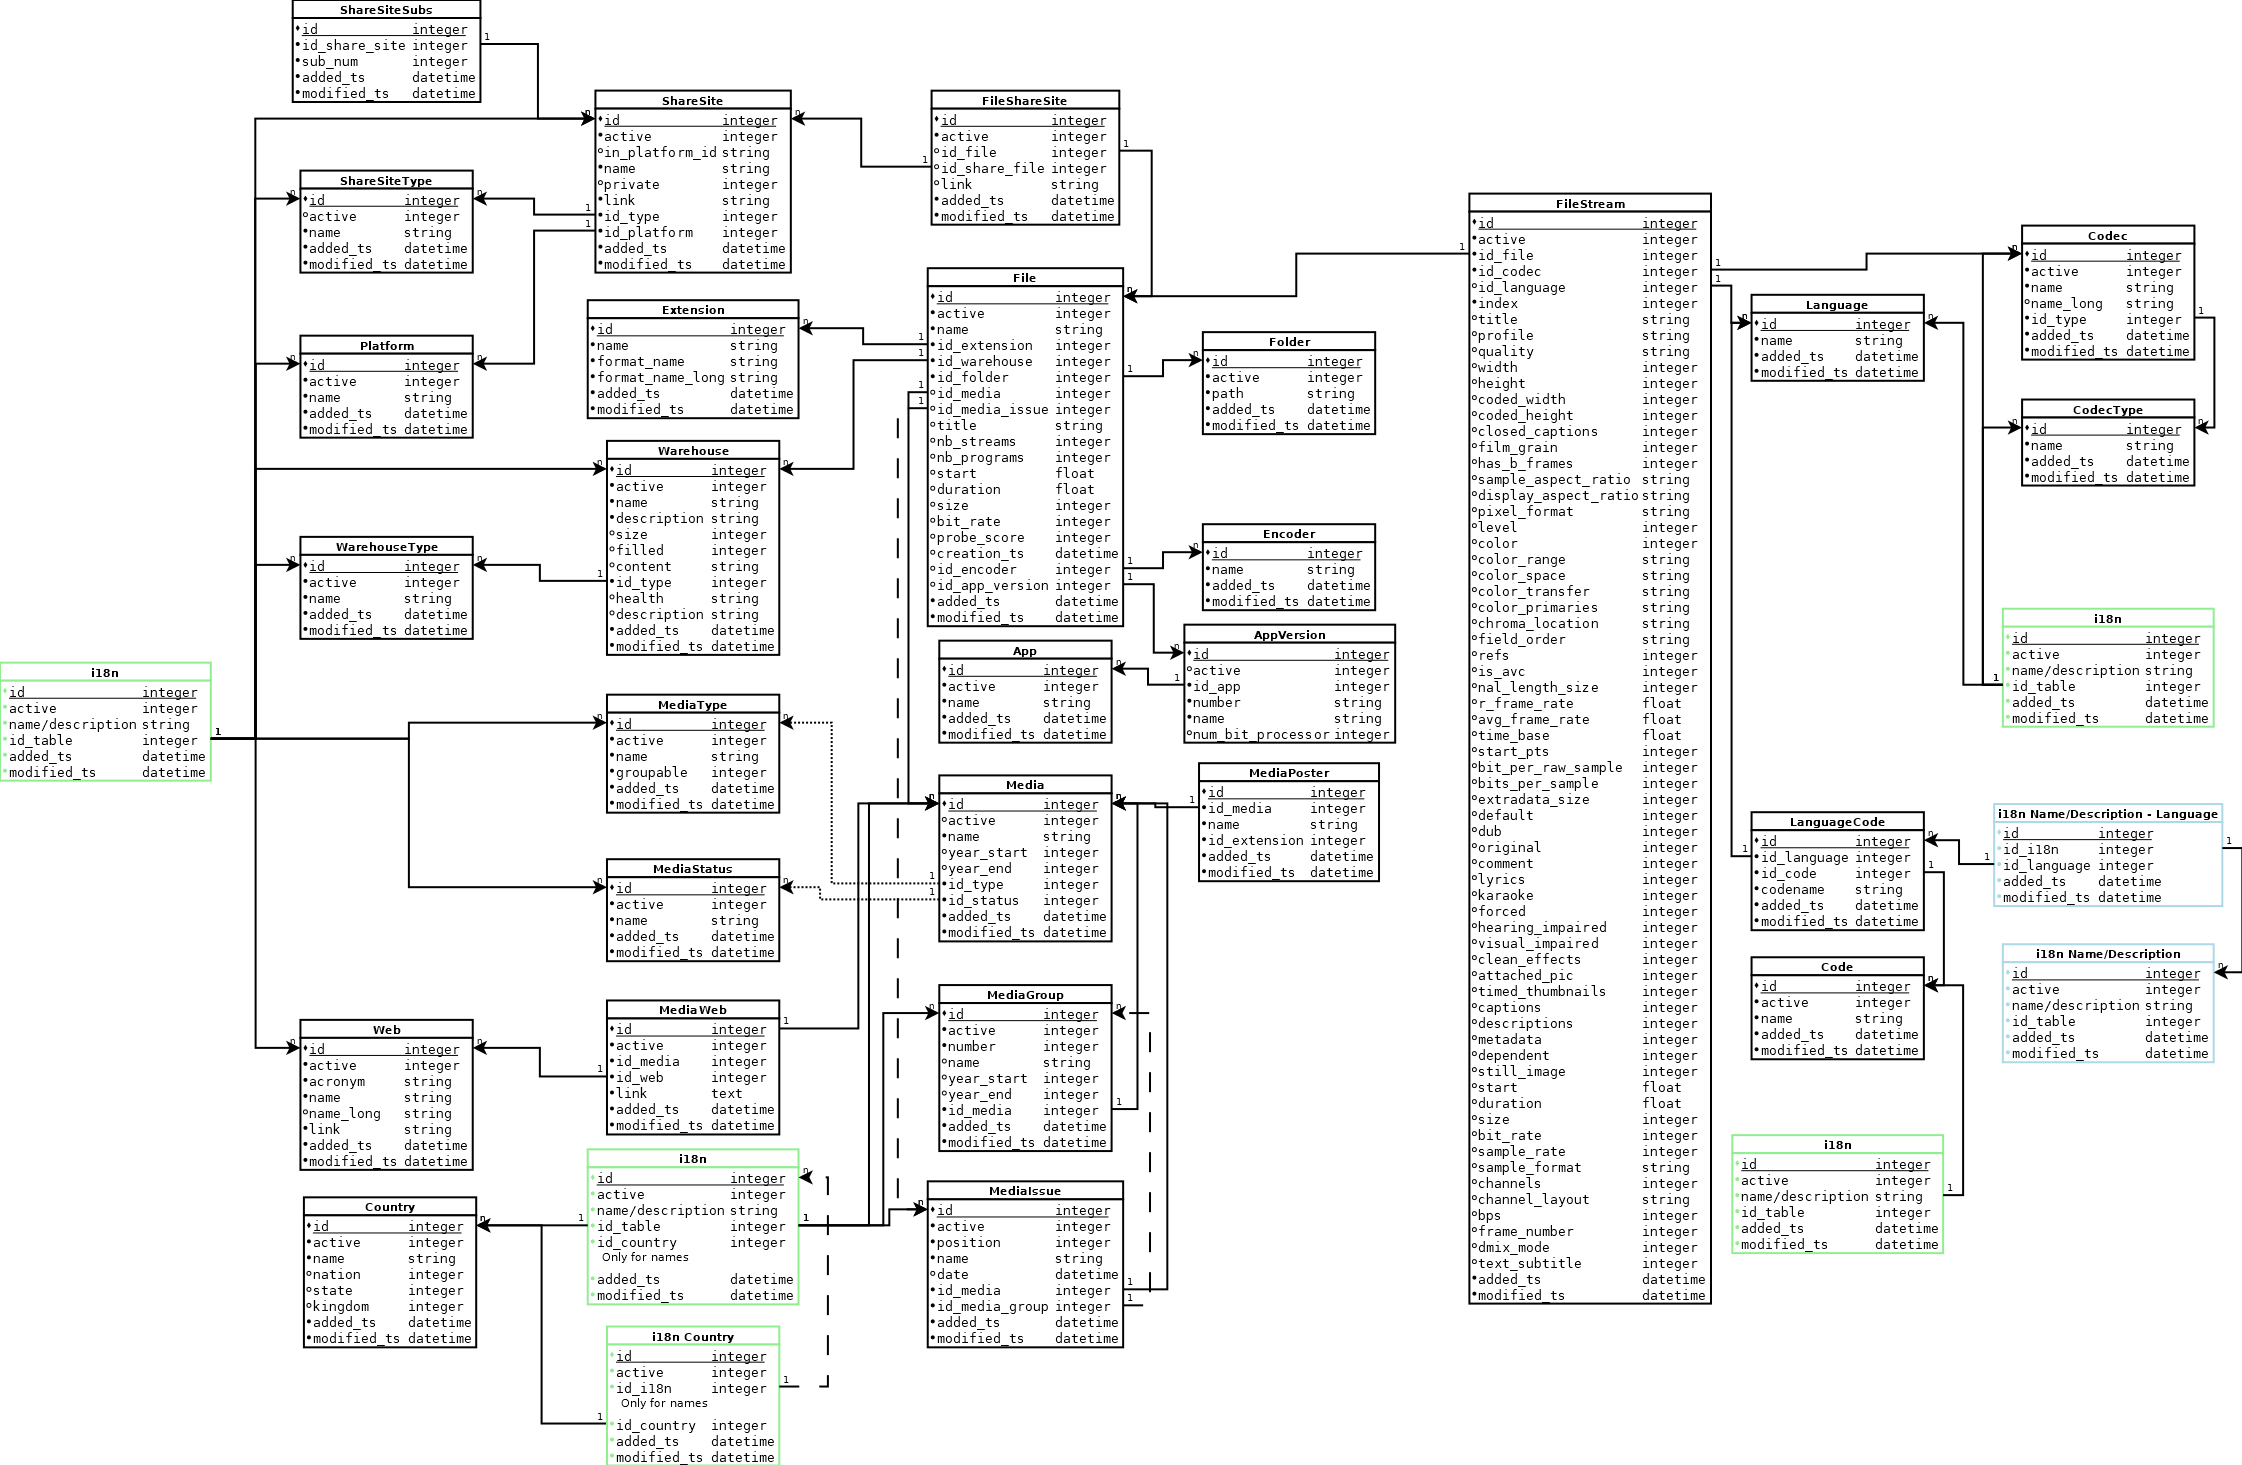
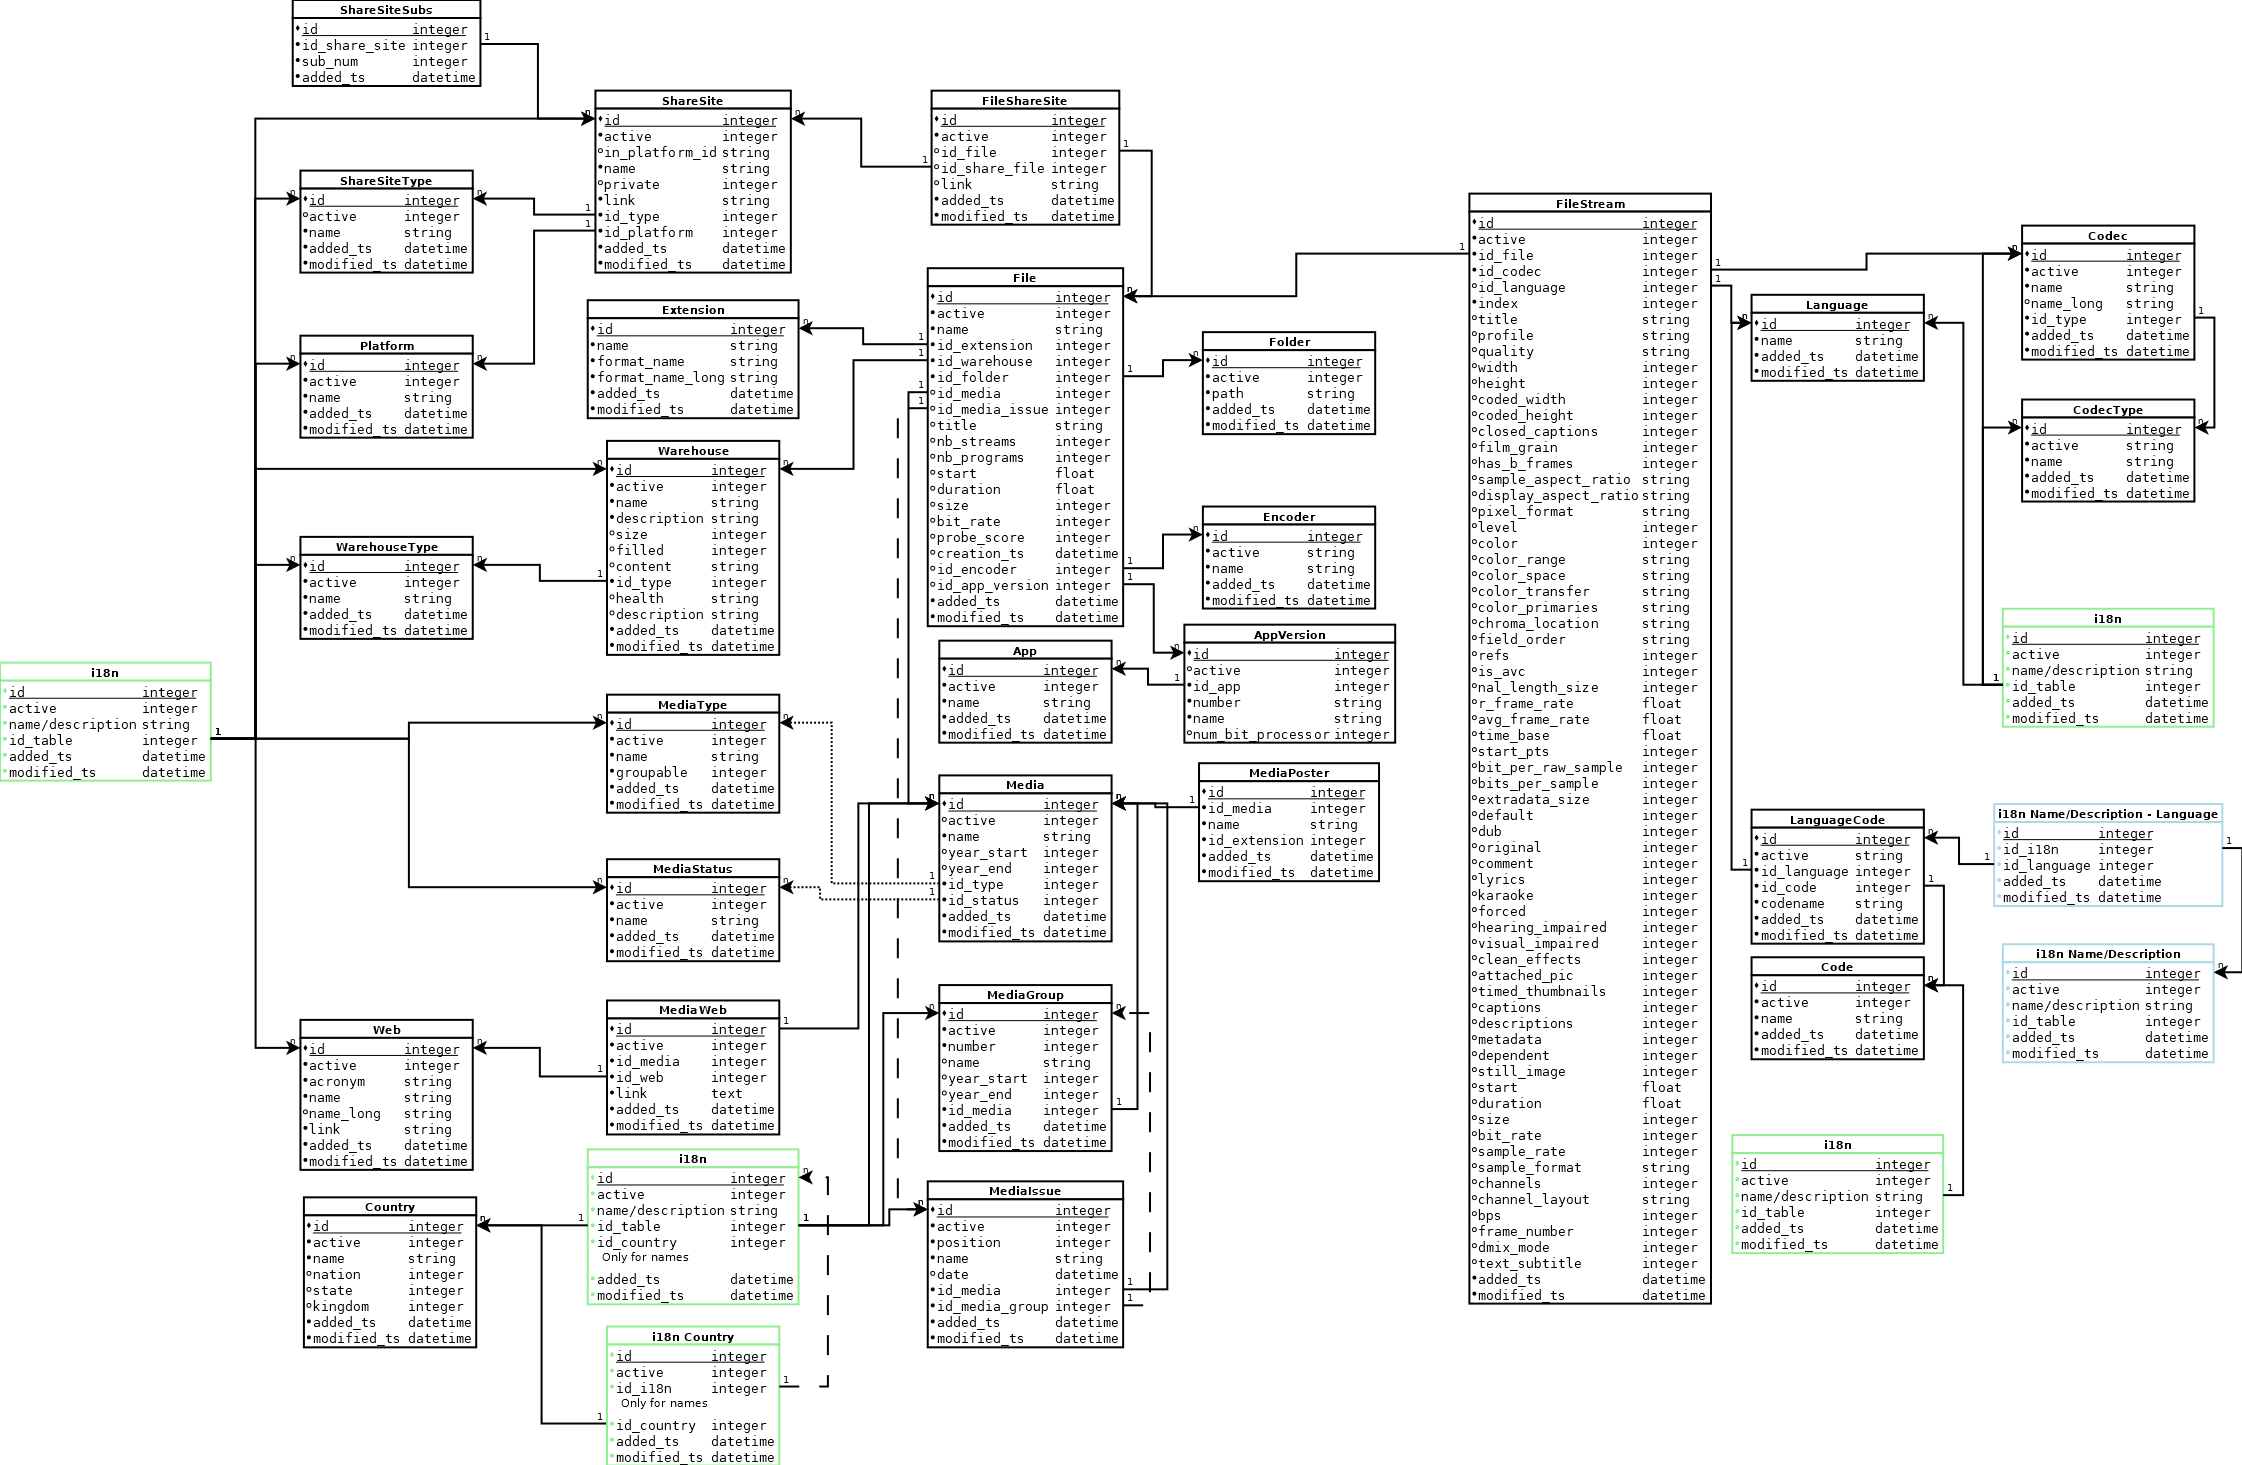
added active field

diff --git a/src/model/entity/share_site_type_description.py b/src/model/entity/share_site_type_description.py
@@ -3,9 +3,10 @@
 # ------------------------------------------------------------------------------
 #+ Autor:  	Ran#
 #+ Creado: 	2023/02/15 21:05:40.314045
-#+ Editado:	2023/02/17 20:41:09.741981
+#+ Editado:	2023/02/24 22:05:22.934419
 # ------------------------------------------------------------------------------
 from dataclasses import dataclass, field
+from typing import Optional
 
 from src.utils import Config
 from src.model.entity import BaseEntity, ShareSiteType
@@ -20,4 +21,5 @@ class ShareSiteTypeDescription(BaseEntity):
                             default=Config().get_table_name('ShareSiteTypeDescription'))
     desc: str
     share_site_type: ShareSiteType
+    active: Optional[int] = field(default=1)
 # ------------------------------------------------------------------------------

diff --git a/src/model/entity/warehouse_type_description.py b/src/model/entity/warehouse_type_description.py
@@ -3,9 +3,10 @@
 # ------------------------------------------------------------------------------
 #+ Autor:  	Ran#
 #+ Creado: 	2023/02/12 13:45:17.157511
-#+ Editado:	2023/02/17 20:41:25.618912
+#+ Editado:	2023/02/24 22:05:34.711928
 # ------------------------------------------------------------------------------
 from dataclasses import dataclass, field
+from typing import Optional
 
 from src.utils import Config
 from src.model.entity import BaseEntity, WarehouseType
@@ -20,4 +21,5 @@ class WarehouseTypeDescription(BaseEntity):
                             default=Config().get_table_name('WarehouseTypeDescription'))
     desc: str
     warehouse_type: WarehouseType
+    active: Optional[int] = field(default=1)
 # ------------------------------------------------------------------------------

diff --git a/src/model/entity/media_status_description.py b/src/model/entity/media_status_description.py
@@ -3,9 +3,10 @@
 # ------------------------------------------------------------------------------
 #+ Autor:  	Ran#
 #+ Creado: 	2023/02/19 14:16:04.980216
-#+ Editado:	2023/02/19 14:16:18.019832
+#+ Editado:	2023/02/24 22:04:59.768832
 # ------------------------------------------------------------------------------
 from dataclasses import dataclass, field
+from typing import Optional
 
 from src.utils import Config
 from src.model.entity import BaseEntity, MediaStatus
@@ -20,4 +21,5 @@ class MediaStatusDescription(BaseEntity):
                             default=Config().get_table_name('MediaStatusDescription'))
     desc: str
     media_type: MediaStatus
+    active: Optional[int] = field(default=1)
 # ------------------------------------------------------------------------------

diff --git a/src/model/entity/app_version_description.py b/src/model/entity/app_version_description.py
@@ -3,9 +3,10 @@
 # ------------------------------------------------------------------------------
 #+ Autor:  	Ran#
 #+ Creado: 	2023/02/23 17:17:21.124687
-#+ Editado:	2023/02/23 17:17:49.152586
+#+ Editado:	2023/02/24 22:03:36.361092
 # ------------------------------------------------------------------------------
 from dataclasses import dataclass, field
+from typing import Optional
 
 from src.utils import Config
 from src.model.entity import BaseEntity, AppVersion
@@ -20,4 +21,5 @@ class AppVersionDescription(BaseEntity):
                             default=Config().get_table_name('AppVersionDescription'))
     desc: str
     app_version: AppVersion
+    active: Optional[int] = field(default=1)
 # ------------------------------------------------------------------------------

diff --git a/src/model/entity/codec_type_description.py b/src/model/entity/codec_type_description.py
@@ -3,9 +3,10 @@
 # ------------------------------------------------------------------------------
 #+ Autor:  	Ran#
 #+ Creado: 	2023/02/19 12:33:53.667862
-#+ Editado:	2023/02/19 12:34:04.199933
+#+ Editado:	2023/02/24 22:04:11.864420
 # ------------------------------------------------------------------------------
 from dataclasses import dataclass, field
+from typing import Optional
 
 from src.utils import Config
 from src.model.entity import BaseEntity, CodecType
@@ -20,4 +21,5 @@ class CodecTypeDescription(BaseEntity):
                             default=Config().get_table_name('CodecTypeDescription'))
     desc: str
     codec_type: CodecType
+    active: Optional[int] = field(default=1)
 # ------------------------------------------------------------------------------

diff --git a/src/model/entity/media_type_description.py b/src/model/entity/media_type_description.py
@@ -3,9 +3,10 @@
 # ------------------------------------------------------------------------------
 #+ Autor:  	Ran#
 #+ Creado: 	2023/02/19 14:14:24.670867
-#+ Editado:	2023/02/19 14:15:16.131282
+#+ Editado:	2023/02/24 22:05:04.043772
 # ------------------------------------------------------------------------------
 from dataclasses import dataclass, field
+from typing import Optional
 
 from src.utils import Config
 from src.model.entity import BaseEntity, MediaType
@@ -20,4 +21,5 @@ class MediaTypeDescription(BaseEntity):
                             default=Config().get_table_name('MediaTypeDescription'))
     desc: str
     media_type: MediaType
+    active: Optional[int] = field(default=1)
 # ------------------------------------------------------------------------------

diff --git a/src/model/entity/share_site_description.py b/src/model/entity/share_site_description.py
@@ -3,9 +3,10 @@
 # ------------------------------------------------------------------------------
 #+ Autor:  	Ran#
 #+ Creado: 	2023/02/15 22:36:04.981766
-#+ Editado:	2023/02/17 20:41:03.711024
+#+ Editado:	2023/02/24 22:05:18.380744
 # ------------------------------------------------------------------------------
 from dataclasses import dataclass, field
+from typing import Optional
 
 from src.utils import Config
 from src.model.entity import BaseEntity, ShareSite
@@ -20,4 +21,5 @@ class ShareSiteDescription(BaseEntity):
                             default=Config().get_table_name('ShareSiteDescription'))
     desc: str
     share_site: ShareSite
+    active: Optional[int] = field(default=1)
 # ------------------------------------------------------------------------------

diff --git a/src/model/entity/extension_description.py b/src/model/entity/extension_description.py
@@ -3,9 +3,10 @@
 # ------------------------------------------------------------------------------
 #+ Autor:  	Ran#
 #+ Creado: 	2023/02/22 21:52:39.818083
-#+ Editado:	2023/02/22 21:53:07.422821
+#+ Editado:	2023/02/24 22:04:32.775146
 # ------------------------------------------------------------------------------
 from dataclasses import dataclass, field
+from typing import Optional
 
 from src.utils import Config
 from src.model.entity import BaseEntity, Extension
@@ -20,4 +21,5 @@ class ExtensionDescription(BaseEntity):
                             default=Config().get_table_name('ExtensionDescription'))
     desc: str
     extension: Extension
+    active: Optional[int] = field(default=1)
 # ------------------------------------------------------------------------------

diff --git a/src/model/entity/warehouse_description.py b/src/model/entity/warehouse_description.py
@@ -3,9 +3,10 @@
 # ------------------------------------------------------------------------------
 #+ Autor:  	Ran#
 #+ Creado: 	2023/02/12 13:45:17.157511
-#+ Editado:	2023/02/17 20:41:19.942023
+#+ Editado:	2023/02/24 22:05:30.492262
 # ------------------------------------------------------------------------------
 from dataclasses import dataclass, field
+from typing import Optional
 
 from src.utils import Config
 from src.model.entity import BaseEntity, Warehouse
@@ -20,4 +21,5 @@ class WarehouseDescription(BaseEntity):
                             default=Config().get_table_name('WarehouseDescription'))
     desc: str
     warehouse: Warehouse
+    active: Optional[int] = field(default=1)
 # ------------------------------------------------------------------------------

diff --git a/src/model/entity/codec_type.py b/src/model/entity/codec_type.py
@@ -3,9 +3,10 @@
 # ------------------------------------------------------------------------------
 #+ Autor:  	Ran#
 #+ Creado: 	2023/01/27 16:44:24.358200
-#+ Editado:	2023/02/24 20:15:03.454248
+#+ Editado:	2023/02/24 22:06:08.261711
 # ------------------------------------------------------------------------------
 from dataclasses import dataclass, field
+from typing import Optional
 
 from src.utils import Config
 from src.model.entity import BaseEntity
@@ -19,4 +20,5 @@ class CodecType(BaseEntity):
     table_name: str = field(init=False, repr=False,
                             default=Config().get_table_name('CodecType'))
     name: str
+    active: Optional[int] = field(default=1)
 # ------------------------------------------------------------------------------

diff --git a/src/model/entity/country_description.py b/src/model/entity/country_description.py
@@ -3,9 +3,10 @@
 # ------------------------------------------------------------------------------
 #+ Autor:  	Ran#
 #+ Creado: 	2023/02/19 00:53:10.705486
-#+ Editado:	2023/02/19 00:53:43.671020
+#+ Editado:	2023/02/24 22:04:21.999160
 # ------------------------------------------------------------------------------
 from dataclasses import dataclass, field
+from typing import Optional
 
 from src.utils import Config
 from src.model.entity import BaseEntity, Country
@@ -20,4 +21,5 @@ class CountryDescription(BaseEntity):
                             default=Config().get_table_name('CountryDescription'))
     desc: str
     country: Country
+    active: Optional[int] = field(default=1)
 # ------------------------------------------------------------------------------

diff --git a/src/model/entity/encoder.py b/src/model/entity/encoder.py
@@ -3,9 +3,10 @@
 # ------------------------------------------------------------------------------
 #+ Autor:  	Ran#
 #+ Creado: 	2023/01/27 18:34:16.472445
-#+ Editado:	2023/02/17 20:36:26.163232
+#+ Editado:	2023/02/24 22:06:01.598999
 # ------------------------------------------------------------------------------
 from dataclasses import dataclass, field
+from typing import Optional
 
 from src.utils import Config
 from src.model.entity import BaseEntity
@@ -19,4 +20,5 @@ class Encoder(BaseEntity):
     table_name: str = field(init=False, repr=False,
                             default=Config().get_table_name('Encoder'))
     name: str
+    active: Optional[int] = field(default=1)
 # ------------------------------------------------------------------------------
